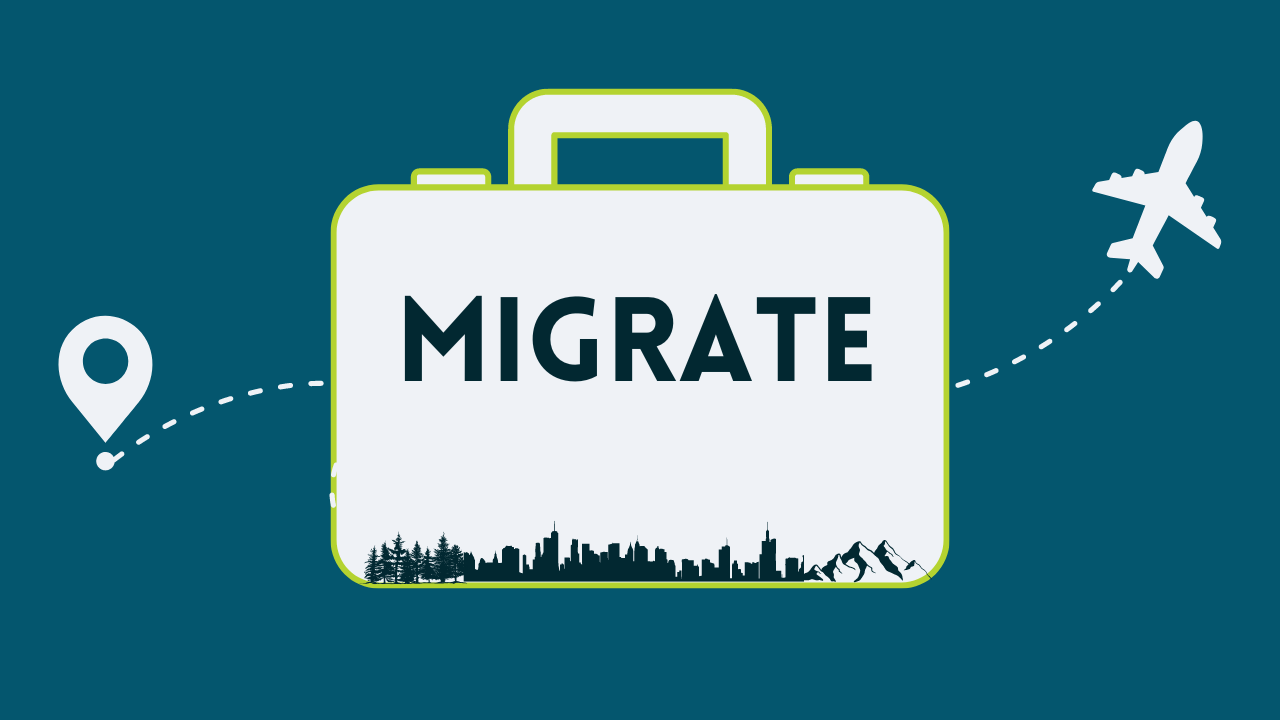
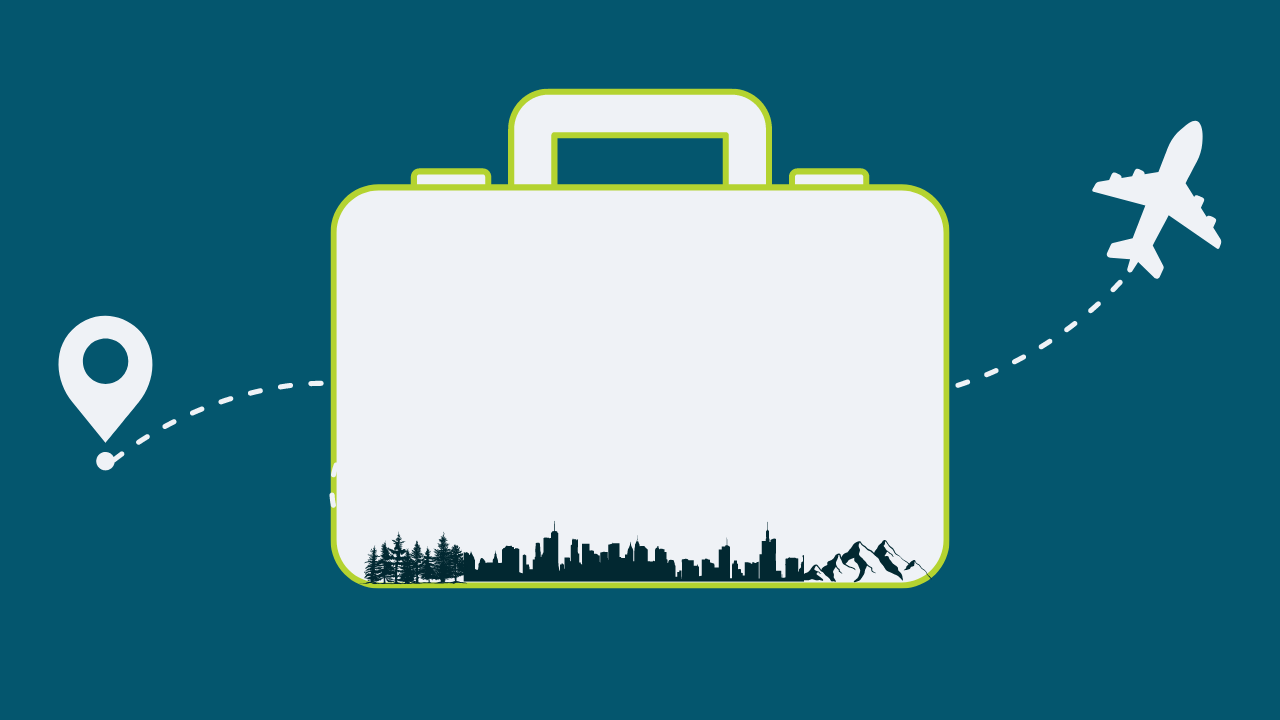
everything scales

Changed region(s): [[0.3125, 0.3972, 0.6875, 0.55]]

diff --git a/client/src/pages/Splash/Splash.scss b/client/src/pages/Splash/Splash.scss
@@ -1,9 +1,13 @@
 .splash{
     background-image: url("../../../public/images/homeBackground.png");
-    background-size: cover;
-    // background-color: #04566e;
+    background-size: contain;
+    background-color: #04566e;
     background-repeat: no-repeat;
     height:100vh;
+    width: 100%;
+    margin: 0 auto;
+    position: fixed;
+    background-position: center top;
 }
 
 .button {
@@ -11,11 +15,32 @@
     color: #022831;
     position: relative;
     left: 35%;
-    margin-top: 34%;
+    margin-top: -1%;
     background-image: none;
     width: 30%;
-    height: 55px;
+    height: 5vw;
     border: 2px solid #022831;
-    font-size: 20px;
+    font-size: 2vw;
     box-shadow: 0px 5px 5px;
+}
+
+.migrate {
+    margin-left: 33%;
+    font-family: TRANSAT;
+    font-size: 8vw;
+    margin-top: 18%;
+}
+
+.overview {
+    color: #eff2f6;
+    margin-top: 11%;
+    margin-right: 10%;
+    margin-left: 10%;
+    font-size: 1.1vw;
+}
+
+.tag {
+    color: #eff2f6;
+    margin-left: 38%;
+    font-size: 1.1vw;
 }

diff --git a/client/src/pages/Splash/index.js b/client/src/pages/Splash/index.js
@@ -3,8 +3,15 @@ import "./Splash.scss";
 
 function Splash(){
     return (
-            <main class="splash">
-                <button class="button">Where are you going?...</button> 
+            <main className="splash">
+                <p className='tag'>Looking to relocate? Start your search here.</p>
+                <h1 className='migrate'>MIGRATE</h1>
+                <button class="button">Where are you going?...</button>
+                <p className="overview"> Get the hard data about your dream country.
+                    Migrate compiles years of information to present a general overview of any country. There are so many factors that
+                    play into choosing a new home. Get information about education levels, sanitation, resource access, quality of life,
+                    and safety.
+                </p> 
             </main>
         )
 }
